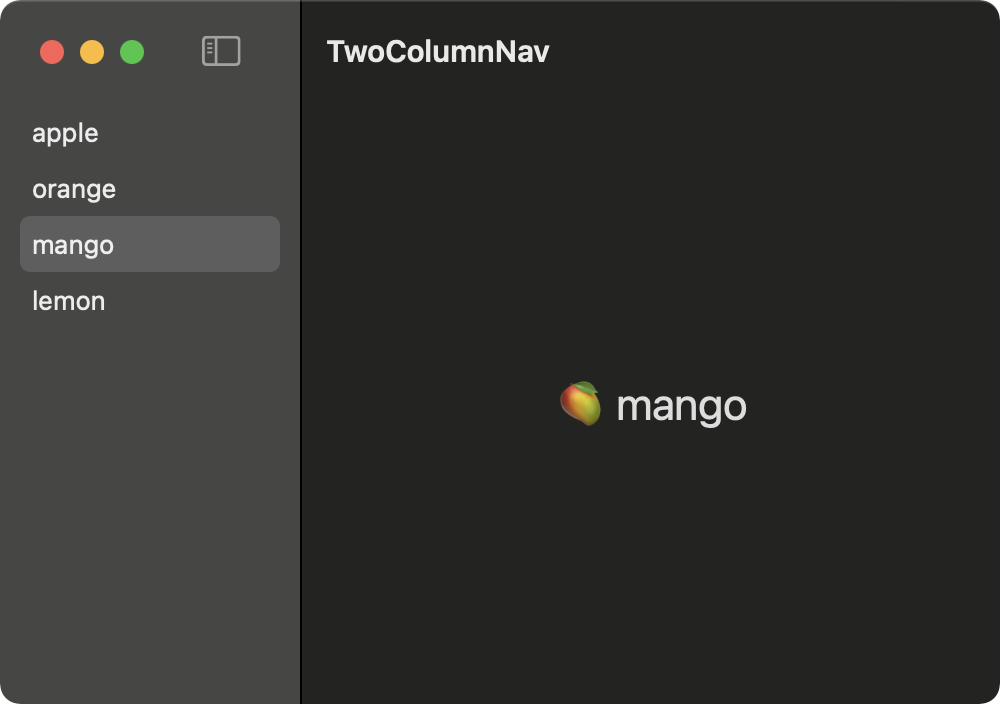
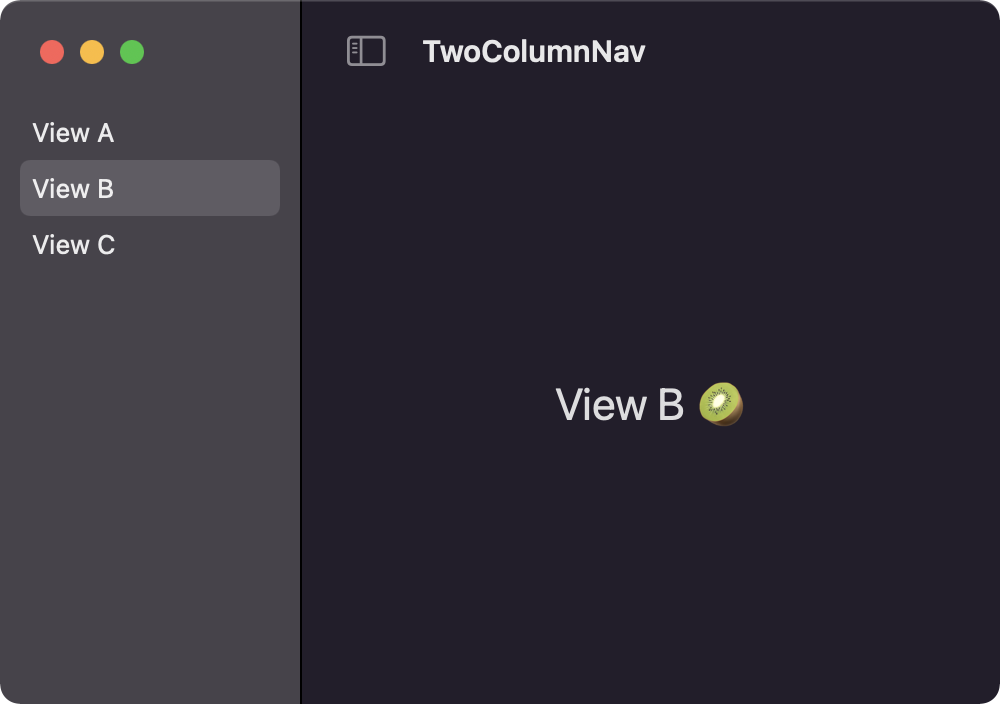
Update two column nav example

diff --git a/examples/TwoColumnNav/TwoColumnNav/ContentView.swift b/examples/TwoColumnNav/TwoColumnNav/ContentView.swift
@@ -2,69 +2,53 @@
 //  ContentView.swift
 //  TwoColumnNav
 //
-//  Created by Gavin Wiggins on 10/6/21.
+//  Created by Gavin Wiggins on 3/4/22.
 //
 
 import SwiftUI
 
-enum Fruit: String, CaseIterable, Identifiable {
-    case apple
-    case orange
-    case mango
-    case lemon
-    var id: String { rawValue }
-}
-
-struct Sidebar: View {
-
-    @Binding var selection: Fruit?
-
+struct ViewA: View {
     var body: some View {
-        List(Fruit.allCases, id: \.self, selection: $selection) { fruit in
-            Text(fruit.rawValue)
-        }
-        .listStyle(SidebarListStyle())
-        .toolbar {
-            Button(action: toggleSidebar, label: {
-                Image(systemName: "sidebar.left").help("Toggle Sidebar")
-            })
-        }
-        .frame(minWidth: 150)
+        Text("View A 🍎").font(.title)
     }
 }
 
-struct DetailView: View {
-
-    var selection: Fruit
-
+struct ViewB: View {
     var body: some View {
-        switch selection {
-        case .apple:
-            Text("🍎 \(selection.rawValue)").font(.title).frame(minWidth: 200)
-        case .orange:
-            Text("🍊 \(selection.rawValue)").font(.title).frame(minWidth: 200)
-        case .mango:
-            Text("🥭 \(selection.rawValue)").font(.title).frame(minWidth: 200)
-        case .lemon:
-            Text("🍋 \(selection.rawValue)").font(.title).frame(minWidth: 200)
-        }
+        Text("View B 🥝").font(.title)
     }
 }
 
-private func toggleSidebar() {
-    NSApp.keyWindow?.contentViewController?.tryToPerform(#selector(NSSplitViewController.toggleSidebar(_:)), with: nil)
+struct ViewC: View {
+    var body: some View {
+        Text("View C 🍑").font(.title)
+    }
 }
 
 struct ContentView: View {
+    @AppStorage("savedSelection") private var savedSelection: String?
     
-    @AppStorage("selection") private var selection: Fruit = .apple
-
     var body: some View {
         NavigationView {
-            Sidebar(selection: Binding($selection))
-            DetailView(selection: selection)
+            List {
+                NavigationLink("View A", tag: "A", selection: $savedSelection, destination: { ViewA() })
+                NavigationLink("View B", tag: "B", selection: $savedSelection, destination: { ViewB() })
+                NavigationLink("View C", tag: "C", selection: $savedSelection, destination: { ViewC() })
+            }
+            .frame(minWidth: 150)
+            .listStyle(SidebarListStyle())
+            Text("No sidebar item selected.")
         }
         .frame(width: 500, height: 300)
+        .toolbar {
+            ToolbarItem(placement: .navigation) {
+                Button {
+                    NSApp.sendAction(#selector(NSSplitViewController.toggleSidebar(_:)), to: nil, from: nil)
+                } label: {
+                    Image(systemName: "sidebar.left").help("Toggle sidebar")
+                }
+            }
+        }
     }
 }
 

diff --git a/examples/TwoColumnNav/TwoColumnNav/TwoColumnNavApp.swift b/examples/TwoColumnNav/TwoColumnNav/TwoColumnNavApp.swift
@@ -2,7 +2,7 @@
 //  TwoColumnNavApp.swift
 //  TwoColumnNav
 //
-//  Created by Gavin Wiggins on 10/6/21.
+//  Created by Gavin Wiggins on 3/4/22.
 //
 
 import SwiftUI
@@ -12,6 +12,9 @@ struct TwoColumnNavApp: App {
     var body: some Scene {
         WindowGroup {
             ContentView()
+        }
+        .commands {
+            SidebarCommands()
         }
     }
 }

diff --git a/docs/_swiftui/two-column-nav.md b/docs/_swiftui/two-column-nav.md
@@ -2,71 +2,55 @@
 title: Two column NavigationView
 ---
 
-A two column `NavigationView` creates a sidebar with a list of items and a detail view. In the example shown below, selecting an item in the sidebar will change the detail view. An `AppStorage` property is used to remember the selected item.
+A two column `NavigationView` creates a sidebar with a list of items and a detail view. In the example shown below, selecting an item in the sidebar will change the detail view. An `@AppStorage` property is used to remember the selected item.
 
 ![two column navigation](/swift-macos/images/twocolnav.png)
 
 ```swift
 import SwiftUI
 
-enum Fruit: String, CaseIterable, Identifiable {
-    case apple
-    case orange
-    case mango
-    case lemon
-    var id: String { rawValue }
-}
-
-struct Sidebar: View {
-
-    @Binding var selection: Fruit?
-
+struct ViewA: View {
     var body: some View {
-        List(Fruit.allCases, id: \.self, selection: $selection) { fruit in
-            Text(fruit.rawValue)
-        }
-        .listStyle(SidebarListStyle())
-        .toolbar {
-            Button(action: toggleSidebar, label: {
-                Image(systemName: "sidebar.left").help("Toggle Sidebar")
-            })
-        }
-        .frame(minWidth: 150)
+        Text("View A 🍎").font(.title)
     }
 }
 
-struct DetailView: View {
-
-    var selection: Fruit
-
+struct ViewB: View {
     var body: some View {
-        switch selection {
-        case .apple:
-            Text("🍎 \(selection.rawValue)").font(.title).frame(minWidth: 200)
-        case .orange:
-            Text("🍊 \(selection.rawValue)").font(.title).frame(minWidth: 200)
-        case .mango:
-            Text("🥭 \(selection.rawValue)").font(.title).frame(minWidth: 200)
-        case .lemon:
-            Text("🍋 \(selection.rawValue)").font(.title).frame(minWidth: 200)
-        }
+        Text("View B 🥝").font(.title)
     }
 }
 
-private func toggleSidebar() {
-    NSApp.keyWindow?.contentViewController?.tryToPerform(#selector(NSSplitViewController.toggleSidebar(_:)), with: nil)
+struct ViewC: View {
+    var body: some View {
+        Text("View C 🍑").font(.title)
+    }
 }
 
 struct ContentView: View {
-
-    @AppStorage("selection") private var selection: Fruit = .apple
+    @AppStorage("savedSelection") private var savedSelection: String?
 
     var body: some View {
         NavigationView {
-            Sidebar(selection: Binding($selection))
-            DetailView(selection: selection)
+            List {
+                NavigationLink("View A", tag: "A", selection: $savedSelection, destination: { ViewA() })
+                NavigationLink("View B", tag: "B", selection: $savedSelection, destination: { ViewB() })
+                NavigationLink("View C", tag: "C", selection: $savedSelection, destination: { ViewC() })
+            }
+            .frame(minWidth: 150)
+            .listStyle(SidebarListStyle())
+            Text("No sidebar item selected.")
         }
         .frame(width: 500, height: 300)
+        .toolbar {
+            ToolbarItem(placement: .navigation) {
+                Button {
+                    NSApp.sendAction(#selector(NSSplitViewController.toggleSidebar(_:)), to: nil, from: nil)
+                } label: {
+                    Image(systemName: "sidebar.left").help("Toggle sidebar")
+                }
+            }
+        }
     }
 }
 ```
